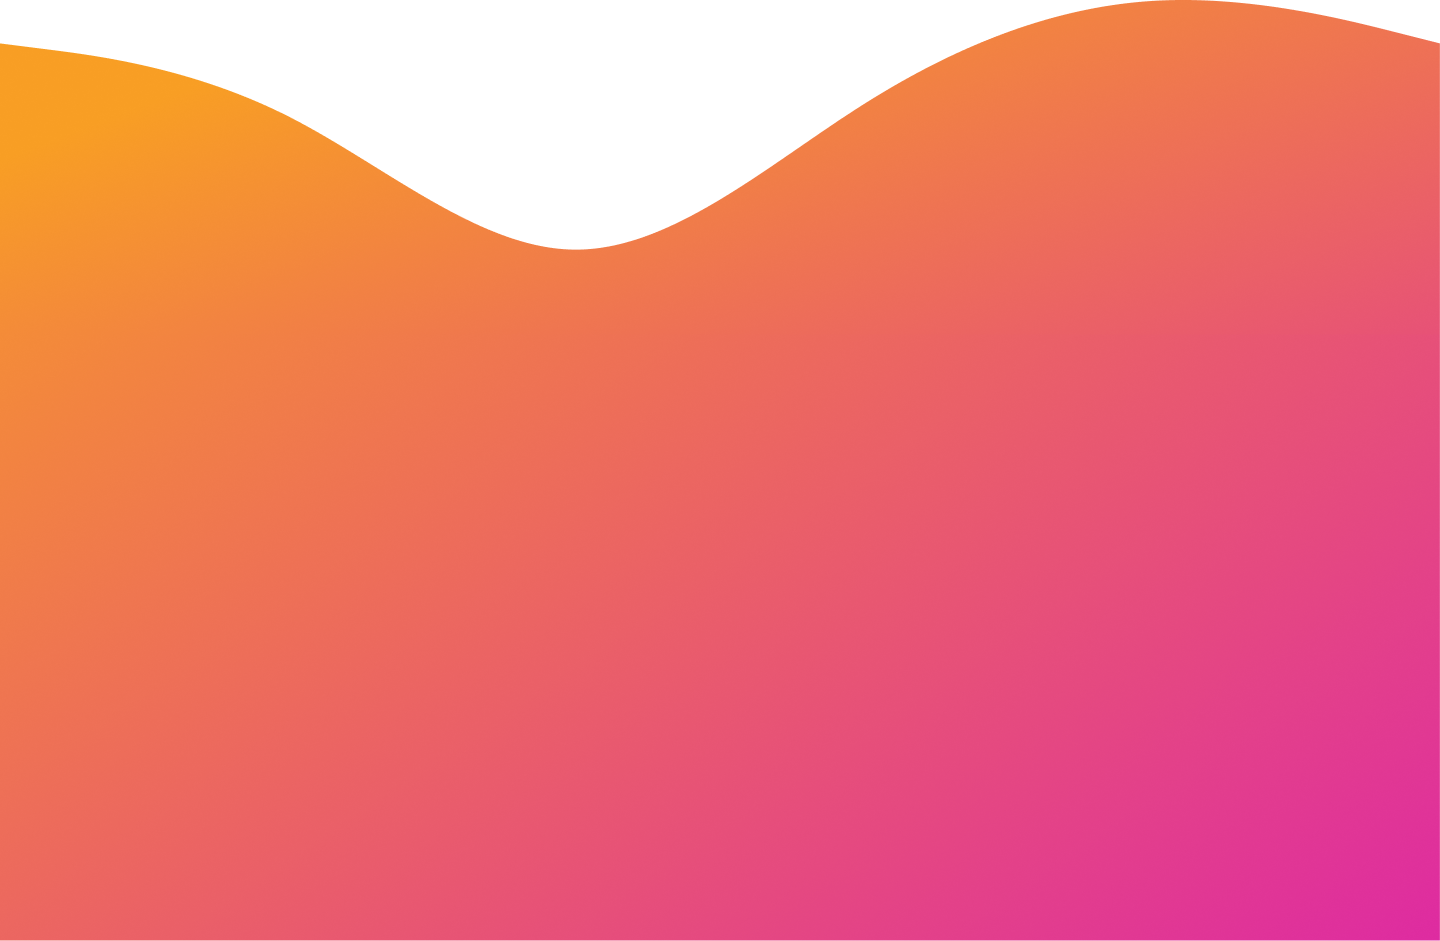
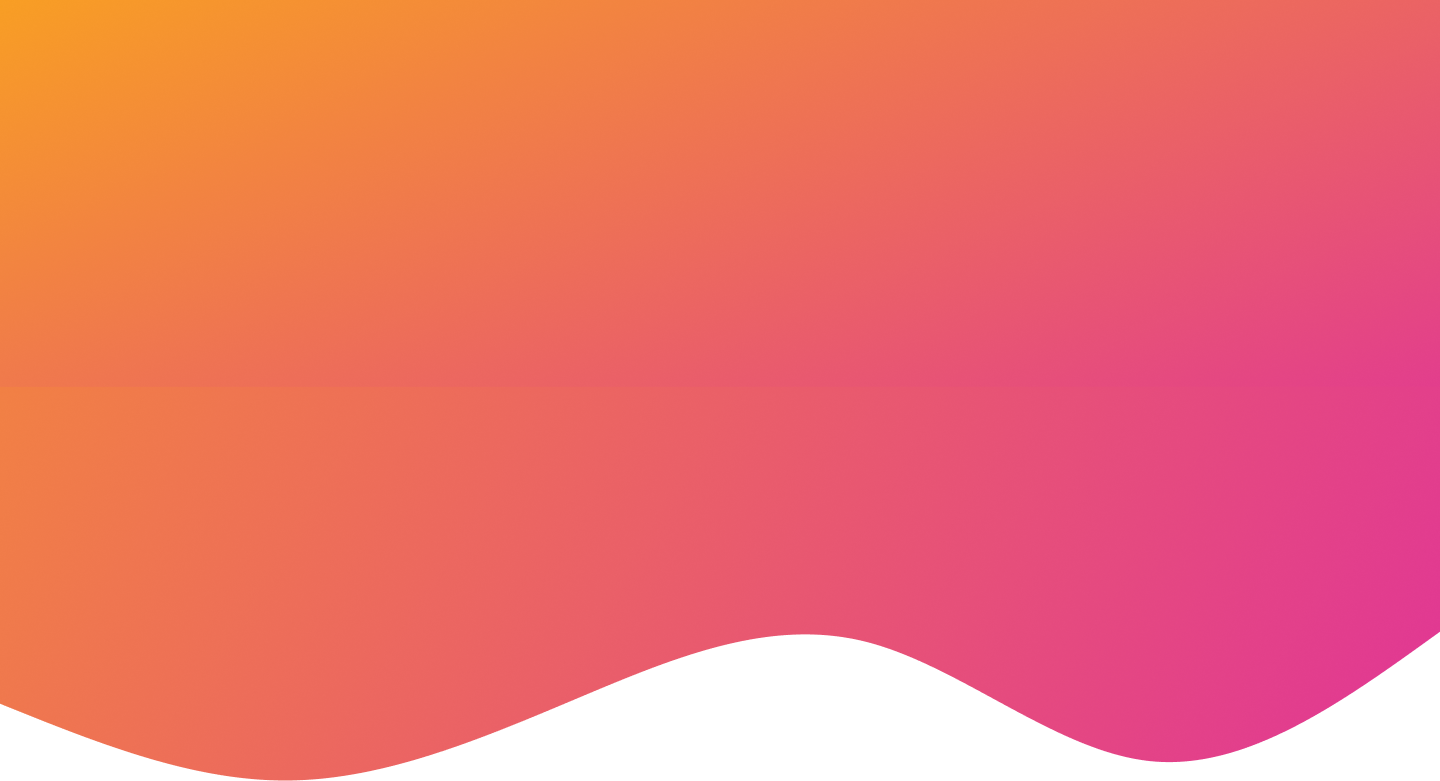
mudanas home

diff --git a/index.html b/index.html
@@ -14,6 +14,7 @@
     <link rel="preconnect" href="https://fonts.googleapis.com">
     <link rel="preconnect" href="https://fonts.gstatic.com" crossorigin>
     <link href="https://fonts.googleapis.com/css2?family=Poppins:wght@300;500;700&display=swap" rel="stylesheet">
+    <link href="https://fonts.googleapis.com/css2?family=Montserrat+Alternates:wght@300;500;700&display=swap" rel="stylesheet">
 
     <!-- Bootstrap -->
     <link rel="stylesheet" href="https://cdn.jsdelivr.net/npm/bootstrap@4.0.0/dist/css/bootstrap.min.css" integrity="sha384-Gn5384xqQ1aoWXA+058RXPxPg6fy4IWvTNh0E263XmFcJlSAwiGgFAW/dAiS6JXm" crossorigin="anonymous">
@@ -30,16 +31,15 @@
 <body>
     <header>
         <nav class="main-nav">
-            <div class="fa-solid fa-bars" id="navbar-icon"></div>
-            
             <a href="#home-sec" class="logo-link">
-                <img src="./assets/logo.png" alt="Logo-Avance">
+                <img src="./assets/logo-2.svg" alt="Logo-Avance">
             </a>
+            <div class="fa-solid fa-bars" id="navbar-icon"></div>
 
             <ul class="nav-list">
+                <li><a href="#about-sec" class="nav-link">Sobre</a></li>
                 <li><a href="#home-sec" class="nav-link">Evento</a></li>
-                <li><a href="#aa-sec" class="nav-link">Evento</a></li>
-                <li><a href="#about" class="nav-link">Evento</a></li>
+                <li><a href="#" class="nav-link">Evento</a></li>
                 <li><a href="#contact" class="nav-link">Contato</a></li>
             </ul>
 
@@ -49,13 +49,19 @@
                 <a href="#"><i class="fa-brands fa-linkedin"></i></a>
                 <a href="#"><i class="fa-brands fa-youtube"></i></a>
             </div>
+
+            
         </nav>
     </header>
 
     <section class="home-sec" id="home-sec">
       <div class="a">
         <div class="text">
-          <h1>Prepare-se para <span>impulsionar</span> sua empresa para o próximo nível</h1>
+          <h1>Apenas <span>AVANCE!</span></h1>
+          <br>
+          <h1>
+            O futuro pertence àqueles que ousam avançar em direção a realização.
+          </h1>
 
           <button href="#contact">Entre em contato conosco</button>
         </div>
@@ -65,6 +71,12 @@
         </div>
       </div>
     </section>  
+
+    <section class="about-sec" id="about-sec">
+      <div class="title active-title">
+        <h1>Sobre a Avance</h1>
+      </div>
+    </section>
 
     <section class="aa-sec" id="aa-sec">
       <div id="carouselExampleIndicators" class="carousel slide" data-ride="carousel" data-interval="5000">
@@ -150,6 +162,9 @@
       </div>
       <p class="footer__copy">@Copyright - Avance</p>
     </footer>
-    
+
+    <!-- SCROLLREVEAL -->
+    <script src="https://unpkg.com/scrollreveal"></script>
+    <script type="module" src="./script.js"></script>
 </body>
 </html>

diff --git a/style.css b/style.css
@@ -32,11 +32,6 @@ ul {
     margin-bottom: 0;
 }   
 
-.title.active-title h1::after {
-    display: block;
-    animation: loadLine 1s forwards;
-}
-
 .title h1::after {
     content: '';
     display: none;
@@ -46,6 +41,11 @@ ul {
     border-radius: 10px;
     background-color: var(--third-color);
 }   
+.title.active-title h1::after {
+    display: block;
+    animation: loadLine 1s forwards;
+}
+
 
 header {
     position: fixed;
@@ -53,7 +53,7 @@ header {
     top: 0;
     right: 0;
     z-index: 10;
-    background: transparent;
+    background: white;
     padding: 10px;
 }
 
@@ -92,12 +92,9 @@ section {
     justify-content: space-evenly;
 }
 
-.sticky {
-    background: rgba(31, 27, 27, 0.2);
-    border-radius: 16px;
-    box-shadow: 0 4px 30px rgba(0, 0, 0, 0.1);
-    backdrop-filter: blur(5px);
-    -webkit-backdrop-filter: blur(5px);
+.sticky {   
+    background: rgb(255, 255, 255);
+    box-shadow: 0 4px 30px rgba(0, 0, 0, 0.525);
     border: 1px solid rgba(255, 255, 255, 0.3);
 }
 
@@ -107,18 +104,18 @@ section {
     gap: 4rem;
 }
 
-.imgdela {
+/* .imgdela {
     position: absolute;
     top: 50%;
     right: 33%;
 }
 .imgdela > img {
     width: 600px;
-}
+} */
 
 .nav-list a {
     font-size: var(--p-font);
-    color: white;
+    color: var(--main-color);
     font-size: var(--p-font);
     padding: 10px 20px;
 }
@@ -134,6 +131,29 @@ section {
 .nav-link {
     font-weight: 500;
     position: relative; 
+}
+
+.nav-link::after {
+    content: '';
+    position: absolute;
+    width: 0%;
+    height: 0.16rem;
+    bottom: 9px;
+    left: 0;
+    background-color: var(--third-color);
+    transition: width ease 0.80s;
+}
+
+.nav-link:hover::after {
+    width: 100%;
+}
+
+.nav-link.active {
+    font-weight: bold;
+}
+
+.nav-link.active::after {
+    width: 100%;
 }
 
 .social-media {
@@ -162,10 +182,16 @@ section {
 
 /* HOME-SECTION */
 .home-sec {
-    background-image: url('./assets/wave-section.png'); /* no-repeat center/cover; */
+    background-image: url('./assets/Wave.png'); /* no-repeat center/cover; */
     background-size: 100% 100%;     
     background-position: center;    
     position: relative;
+}
+
+.about-sec {
+    display: flex;
+    justify-content: center;
+    align-items: center;
 }
 
 .a {
@@ -174,6 +200,8 @@ section {
 }
 
 .text {
+    font-family: "Montserrat Alternates", sans-serif;
+    margin: 0 50px;
     color: white;
     margin-top: 10%;
 }
@@ -213,7 +241,7 @@ section {
 
 .sobre-trabalho{
     height: 100vh;
-    background-image: url('./assets/wave.png'); /* no-repeat center/cover; */
+    background-image: url('./assets/Wave.png'); /* no-repeat center/cover; */
     background-size: 100% 100%;     
     background-position: center; 
     display: flex;

diff --git a/script.js b/script.js
@@ -1,11 +1,74 @@
 const menu = document.querySelector('#navbar-icon');
-const navlist = document.querySelector('.nav-list');
 menu.onclick = () => {
     menu.classList.toggle('bx-x');
     navlist.classList.toggle('active');
 }
 
 const header = document.querySelector("header");
-window.addEventListener("scroll", function() {
-    header.classList.toggle("sticky", window.scrollY > 0);
+window.addEventListener('scroll', function() {
+    var scrollPosition = window.scrollY;
+    var sections = document.querySelectorAll('section');
+
+    sections.forEach(function(section) {
+        var top = section.offsetTop - document.querySelector('header').offsetHeight;
+        var bottom = top + section.clientHeight;
+
+        if (scrollPosition >= top && scrollPosition < bottom) {
+            var sectionId = section.id;
+
+            var activeLink = document.querySelector('.nav-link[href="#' + sectionId + '"]');
+            if (activeLink) {
+                document.querySelectorAll('.nav-link').forEach(function(navLink) {
+                    navLink.classList.remove('active');
+                });
+                activeLink.classList.add('active');
+            }
+
+            var activeTitle = document.querySelector('.title.active-title');
+            if (activeTitle) {
+                activeTitle.classList.remove('active-title');
+            }
+
+            var titleInCurrentSection = section.querySelector('.title');
+            if (titleInCurrentSection) {
+                titleInCurrentSection.classList.add('active-title');
+            }
+        }
+    });
 });
+
+window.addEventListener('resize', function() {
+    setActiveTab();
+});
+
+/* function setActiveTab() {
+    var scrollPosition = window.scrollY;
+    var sections = document.querySelectorAll('section');
+
+    sections.forEach(function(section) {
+        var top = section.offsetTop - document.querySelector('header').offsetHeight;
+        var bottom = top + section.clientHeight;
+
+        if (scrollPosition >= top && scrollPosition < bottom) {
+            var sectionId = section.id;
+
+            var activeLink = document.querySelector('.nav-link[href="#' + sectionId + '"]');
+            if (activeLink) {
+                document.querySelectorAll('.nav-link').forEach(function(navLink) {
+                    navLink.classList.remove('active');
+                });
+                activeLink.classList.add('active');
+            }
+        }
+    });
+} */
+
+const sr = ScrollReveal({
+    distance: '100px',
+    duration: 2000,
+    reset: true
+});
+
+//const homeText = document.querySelector('.texto')
+sr.reveal('.text', {origin:'left'});
+sr.reveal('.imgdela', {origin:'right'});
